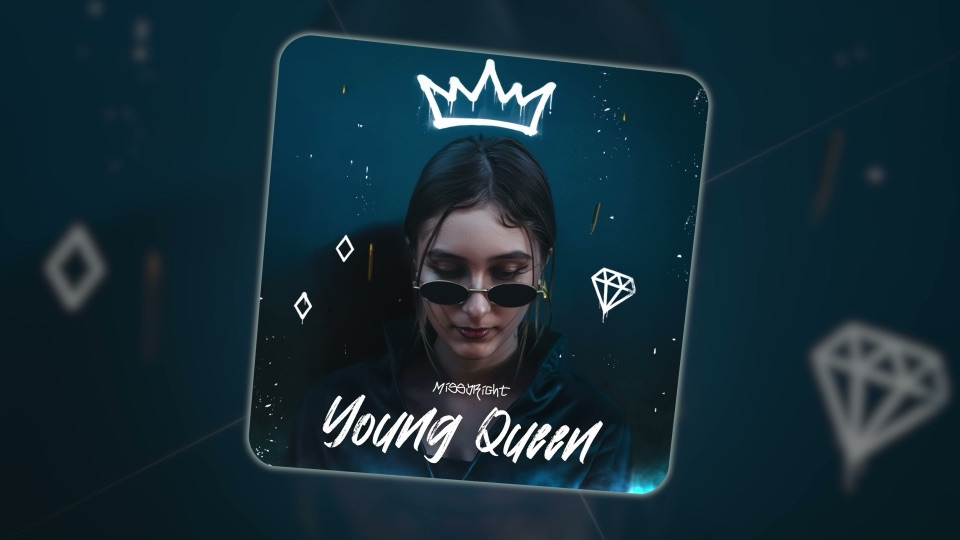
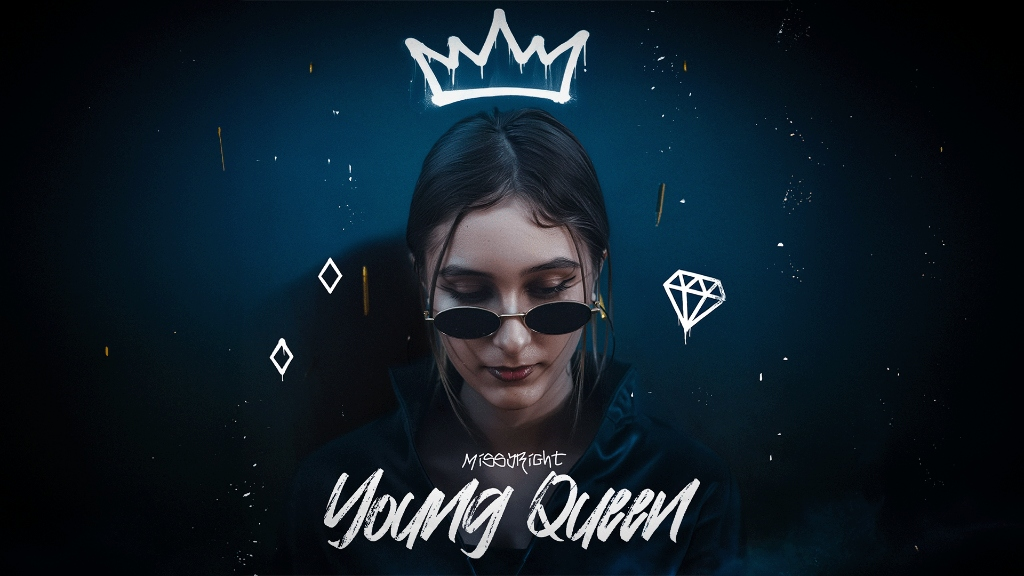
Delete duplicate Proiect Nou (skoliko_stout_boli) and bind real Young Queen YT cover poster and promo suite

diff --git a/app.js b/app.js
@@ -2190,11 +2190,16 @@ function loadAdminOverrides() {
     const saved = localStorage.getItem('artist_visuals_custom_projects');
     if (saved) {
       const custom = JSON.parse(saved);
+      if (custom.skoliko_stout_boli) {
+        delete custom.skoliko_stout_boli;
+        localStorage.setItem('artist_visuals_custom_projects', JSON.stringify(custom));
+      }
       Object.keys(custom).forEach(key => {
         if (!projectsData[key]) projectsData[key] = {};
         Object.assign(projectsData[key], custom[key]);
       });
     }
+    delete projectsData.skoliko_stout_boli;
 
     // Ensure ribz, silvika, laureall never have fake video attached
     if (projectsData.ribz) {
@@ -2228,6 +2233,22 @@ function loadAdminOverrides() {
       projectsData.moostaf.bannerImg = 'assets/banners/banner_moostaf.jpg';
       if (projectsData.moostaf.inVideo === undefined) projectsData.moostaf.inVideo = true;
       if (projectsData.moostaf.inCovers === undefined) projectsData.moostaf.inCovers = false;
+    }
+    if (projectsData.young_queen) {
+      projectsData.young_queen.bannerImg = 'assets/banners/banner_young_queen.jpg';
+      projectsData.young_queen.videoPoster = 'assets/videos/posters/video_young_queen_poster.jpg';
+    }
+    if (projectsData.young_queen_video) {
+      projectsData.young_queen_video.bannerImg = 'assets/banners/banner_young_queen.jpg';
+      projectsData.young_queen_video.videoPoster = 'assets/videos/posters/video_young_queen_poster.jpg';
+    }
+    if (projectsData.ciorniy) {
+      if (!projectsData.ciorniy.bannerImg || projectsData.ciorniy.bannerImg === 'assets/banners/banner_ciorniy.jpg') {
+        projectsData.ciorniy.bannerImg = 'assets/banners/banner_ciorniy_doar_ea.jpg';
+      }
+      if (!projectsData.ciorniy.img) {
+        projectsData.ciorniy.img = 'assets/covers/cover_ciorniy.jpg';
+      }
     }
 
     // Render cards dynamically matching checkboxes

diff --git a/admin.html b/admin.html
@@ -1911,6 +1911,10 @@
       if (saved) {
         try {
           const custom = JSON.parse(saved);
+          if (custom.skoliko_stout_boli) {
+            delete custom.skoliko_stout_boli;
+            localStorage.setItem('artist_visuals_custom_projects', JSON.stringify(custom));
+          }
           Object.keys(custom).forEach(key => {
             if (!workingProjects[key]) workingProjects[key] = {};
             Object.assign(workingProjects[key], custom[key]);
@@ -1956,6 +1960,23 @@
         if (workingProjects.moostaf.inVideo === undefined) workingProjects.moostaf.inVideo = true;
         if (workingProjects.moostaf.inCovers === undefined) workingProjects.moostaf.inCovers = false;
       }
+      if (workingProjects.young_queen) {
+        workingProjects.young_queen.bannerImg = 'assets/banners/banner_young_queen.jpg';
+        workingProjects.young_queen.videoPoster = 'assets/videos/posters/video_young_queen_poster.jpg';
+      }
+      if (workingProjects.young_queen_video) {
+        workingProjects.young_queen_video.bannerImg = 'assets/banners/banner_young_queen.jpg';
+        workingProjects.young_queen_video.videoPoster = 'assets/videos/posters/video_young_queen_poster.jpg';
+      }
+      if (workingProjects.ciorniy) {
+        if (!workingProjects.ciorniy.bannerImg || workingProjects.ciorniy.bannerImg === 'assets/banners/banner_ciorniy.jpg') {
+          workingProjects.ciorniy.bannerImg = 'assets/banners/banner_ciorniy_doar_ea.jpg';
+        }
+        if (!workingProjects.ciorniy.img) {
+          workingProjects.ciorniy.img = 'assets/covers/cover_ciorniy.jpg';
+        }
+      }
+      delete workingProjects.skoliko_stout_boli;
 
       // 5. Ensure all other projects have inVideo / inCovers defined
       Object.keys(workingProjects).forEach(key => {
